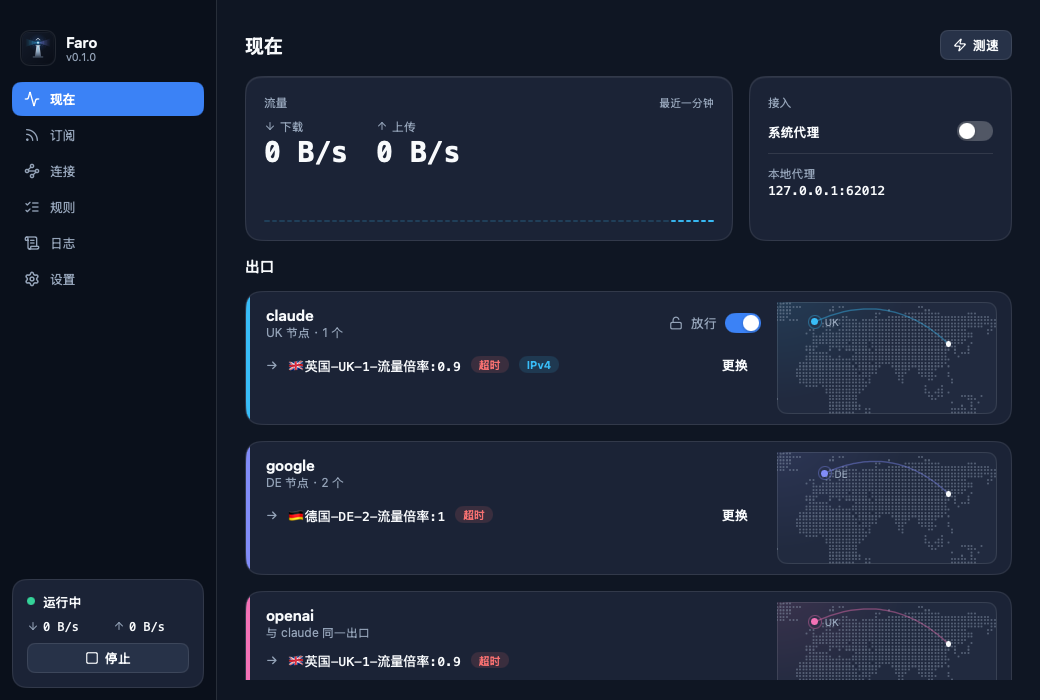
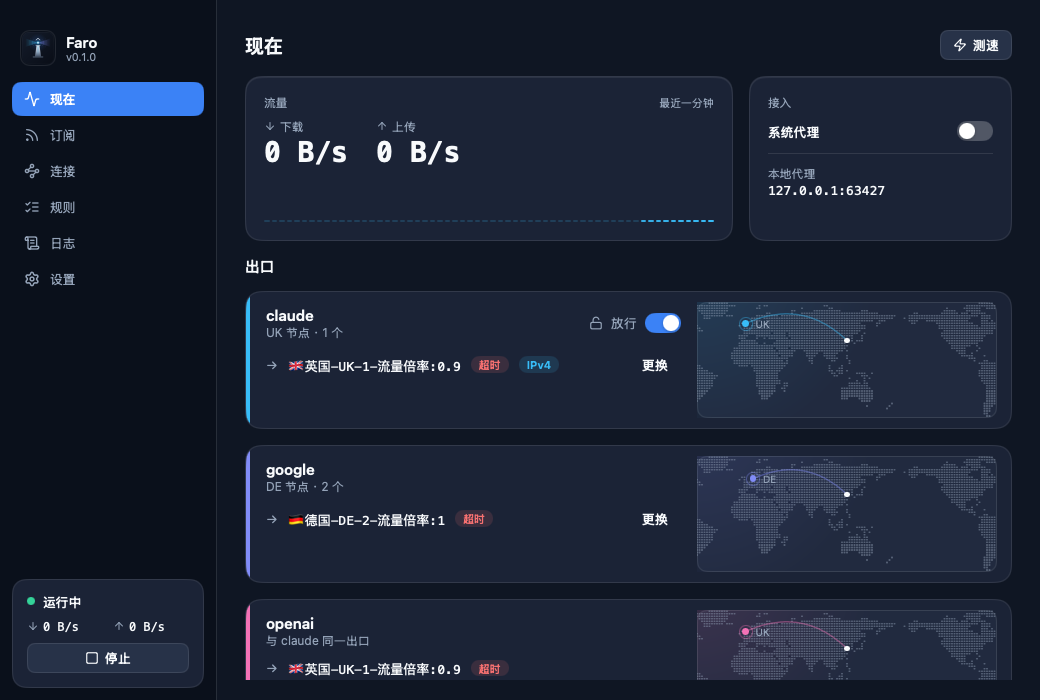
Map: the whole world with this Mac in the middle, so every arc is one line

diff --git a/main_test.go b/main_test.go
@@ -1346,7 +1346,7 @@ func TestTheLightRunsEveryFewSecondsAndTheMapRestsBetween(t *testing.T) {
 	}
 }
 
-func TestArcsAreOneLineAndRunOffTheMapWhereTheExitIsBeyondIt(t *testing.T) {
+func TestEveryArcIsOneLineAndTheMapClipsWhatRunsOffIt(t *testing.T) {
 	const left, width, height = float32(100), float32(250), float32(100)
 	here, _ := geo.Place("HK")
 	w := geo.WorldFrom(here, mapOrigin, mapSpan)
@@ -1357,7 +1357,7 @@ func TestArcsAreOneLineAndRunOffTheMapWhereTheExitIsBeyondIt(t *testing.T) {
 		ex = ax + float32(w.Reach(here, to))*width
 		return mapArc(ax, float32(fy)*height, ex, float32(ty)*height, 40), ex
 	}
-	// To the UK, west: one line, from here at the right to the UK well to the left of it.
+	// To the UK, west: one line, from here at the middle to the UK to the left of it.
 	uk, _ := geo.Place("UK")
 	pts, ex := ends(uk)
 	runs := visibleRuns(pts, left, width)
@@ -1370,26 +1370,27 @@ func TestArcsAreOneLineAndRunOffTheMapWhereTheExitIsBeyondIt(t *testing.T) {
 	if ex >= pts[0][0] || ex < left || lastVisible(pts, left, width) != len(pts)-1 {
 		t.Errorf("the UK is at %v, from %v", ex, pts[0][0])
 	}
-	// Every exit in Europe or Asia is on the map, the US is not.
-	for _, id := range []string{"DE", "NL", "FR", "JP", "SG", "HK", "KR", "AU", "IN"} {
+	// Every exit is on the map, and its arc is one line, whichever way round the
+	// Earth it is the short way: the UK and the US are on either side.
+	for _, id := range []string{"DE", "NL", "FR", "JP", "SG", "HK", "KR", "AU", "IN", "US", "BR", "CA", "ZA"} {
 		p, _ := geo.Place(id)
-		if _, x := ends(p); x < left || x > left+width {
+		pts, x := ends(p)
+		if x < left || x > left+width {
 			t.Errorf("%s is at %v: off the map", id, x)
 		}
+		if runs := visibleRuns(pts, left, width); len(runs) != 1 || len(runs[0]) != len(pts) {
+			t.Errorf("%s: the arc is %d lines", id, len(runs))
+		}
 	}
-	// To the US, east over the Pacific: the arc runs off the right edge.
 	us, _ := geo.Place("US")
-	pts, ex = ends(us)
-	if ex <= left+width {
-		t.Fatalf("the US is at %v, on the map", ex)
+	if _, x := ends(us); x <= left+width/2 {
+		t.Errorf("the US is at %v: it is east of here, to the right", x)
 	}
-	runs = visibleRuns(pts, left, width)
-	if len(runs) != 1 {
-		t.Fatalf("%d lines", len(runs))
-	}
-	last := lastVisible(pts, left, width)
-	if last <= 0 || last == len(pts)-1 || pts[last][0] > left+width {
-		t.Errorf("the arc stops at point %d of %d, at %v", last, len(pts), pts[last][0])
+	// Were the map narrower, an arc runs off its edge and the line stops there.
+	pts = [][2]float32{{50, 10}, {90, 5}, {130, 5}, {170, 10}, {210, 20}}
+	runs = visibleRuns(pts, 100, 100)
+	if len(runs) != 1 || len(runs[0]) != 2 || lastVisible(pts, 100, 100) != 3 {
+		t.Errorf("clipped to the map: %v, last visible %d", runs, lastVisible(pts, 100, 100))
 	}
 	// An arc to the same place is a point.
 	same, _ := ends(here)

diff --git a/routemap.go b/routemap.go
@@ -19,11 +19,13 @@ import (
 // It is drawn from data in the app; nothing is looked up from the network.
 
 const (
-	mapW, mapH = 220, 112
-	// The map shows mapSpan degrees of longitude: Europe at the left, this Mac at
-	// mapOrigin of the way across. A place beyond the right edge is marked at the edge.
-	mapSpan   = 200.0
-	mapOrigin = 0.78
+	mapW, mapH = 300, 116
+	// The map shows mapSpan degrees of longitude, this Mac at mapOrigin of the way
+	// across. All the way round with this Mac in the middle, every place is within
+	// half the Earth of it, so every arc is one line. A place beyond an edge, were the
+	// map made narrower, is marked at the edge.
+	mapSpan   = 360.0
+	mapOrigin = 0.5
 	// mapScale is how many pixels the still layer has to a DIP: enough for sharp dots
 	// on a screen that shows two.
 	mapScale = 2
@@ -222,7 +224,7 @@ func lastVisible(pts [][2]float32, left, width float32) int {
 // paintLand paints the land as dots, k pixels to a DIP.
 func (a *app) paintLand(p *ui.Painter, world geo.World, w, h, k float32) {
 	pitch := float32(geo.CoarseCell/world.Span) * w // how far apart the dots are
-	sz := min(k*2.2, pitch*0.62)
+	sz := min(k*1.9, pitch*0.7)
 	for _, c := range geo.Coarse {
 		x, y := world.XY(c)
 		if x > 1.01 || y < -0.01 || y > 1.01 {

diff --git a/internal/geo/geo_test.go b/internal/geo/geo_test.go
@@ -90,6 +90,25 @@ func TestTheMapIsFramedTheSameWithTheOriginAtTheRight(t *testing.T) {
 	}
 }
 
+func TestAMapAllTheWayRoundHasEveryPlaceOnIt(t *testing.T) {
+	here, _ := Place("HK")
+	w := WorldFrom(here, 0.5, 360)
+	for _, id := range []string{"US", "UK", "DE", "JP", "AU", "BR", "ZA", "CA", "CL", "NZ"} {
+		p, _ := Place(id)
+		x, y := w.XY(p)
+		if x < 0 || x > 1 || y < 0 || y > 1 {
+			t.Errorf("%s is at %v,%v", id, x, y)
+		}
+		if r := w.Reach(here, p); math.Abs(r) > 0.5+1e-9 {
+			t.Errorf("%s is %v widths from here", id, r)
+		}
+		// The arc's end, from the origin's place across, is on the map.
+		if end := 0.5 + w.Reach(here, p); end < -1e-9 || end > 1+1e-9 {
+			t.Errorf("%s ends at %v", id, end)
+		}
+	}
+}
+
 func TestCoarseLandKeepsTheShapeOfTheWorld(t *testing.T) {
 	if len(Coarse) < 1200 || len(Coarse) > 4000 {
 		t.Errorf("%d coarse cells", len(Coarse))

diff --git a/internal/geo/geo.go b/internal/geo/geo.go
@@ -115,8 +115,8 @@ type World struct{ L0, Span float64 }
 
 // Top and Bottom are the latitudes the map shows, from north to south.
 const (
-	Top    = 70.0
-	Bottom = -32.0
+	Top    = 78.0
+	Bottom = -61.0
 )
 
 // WorldFrom frames a span of degrees so that origin is x0 of the way from the left.
